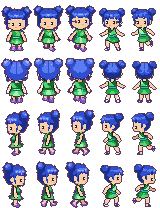
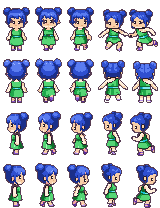
Story markers, bigger names, redrawn girl

diff --git a/js/marks.js b/js/marks.js
@@ -82,16 +82,16 @@ export class Marks {
     const tg = G.guide && G.guide.target && G.guide.target(); const list = [];
     if (tg && tg.story) list.push([tg, 2]); for (const s of near) if (!tg || s !== tg) list.push([s, 1]);
     for (const [s, pr] of list.sort((a, b) => b[1] - a[1])) {
-      const [x, y] = this.scr(s.x, s.y - 54), txt = this.name(s), r = this.textRect(txt, x, y, 17); if (placed.some(q => this.hitRect(q, r))) continue; placed.push(r);
-      const al = clamp(1 - (dist(p.x, p.y, s.x, s.y) - T * 6) / (T * 3)); k.globalAlpha = pr === 2 ? 1 : al; this.lines(txt, x, y, pr === 2 ? '#ffe9a0' : '#fff4d6', 17, 'rgba(40,24,60,.92)', 'center', 5); k.globalAlpha = 1;
+      const [x, y] = this.scr(s.x, s.y - 54), txt = this.name(s), r = this.textRect(txt, x, y, 24); if (placed.some(q => this.hitRect(q, r))) continue; placed.push(r);
+      const al = clamp(1 - (dist(p.x, p.y, s.x, s.y) - T * 6) / (T * 3)); k.globalAlpha = pr === 2 ? 1 : al; this.lines(txt, x, y, pr === 2 ? '#ffe9a0' : '#fff4d6', 24, 'rgba(40,24,60,.92)', 'center', 6); k.globalAlpha = 1;
     }
     // landmark names with a smaller, lighter subtitle: within about 10 tiles, fading out beyond, at most 3 at once
     const lm = (W.id === 'athens' ? this.landmarks : []).map(l => ({ l, x: l.x * W.ws, y: l.y * W.ws })).map(o => Object.assign(o, { d: dist(p.x, p.y, o.x, o.y) })).filter(o => o.d < T * 12).sort((a, b) => a.d - b.d).slice(0, 2);
     for (const o of lm) {
       const al = clamp((T * 12 - o.d) / (T * 3)), [x, y0_] = this.scr(o.x, o.y - 70), y = clamp(y0_, 190 * this.u(), mainCx.canvas.height - 120 * this.u());
-      const nm = o.l.name.toUpperCase(); k.font = `800 ${Math.round(22 * this.u())}px ${FONT}`; const w = k.measureText(nm).width + 22 * this.u(), h = 52 * this.u();
+      const nm = o.l.name.toUpperCase(); k.font = `800 ${Math.round(30 * this.u())}px ${FONT}`; const w = k.measureText(nm).width + 22 * this.u(), h = 66 * this.u();
       const r = { x: x - w / 2, y: y - h, w, h }; if (placed.some(q => this.hitRect(q, r))) continue; placed.push(r);
-      k.globalAlpha = al; this.plate(nm, x, y, 22, o.l.subtitle || '', 14); k.globalAlpha = 1;
+      k.globalAlpha = al; this.plate(nm, x, y, 30, o.l.subtitle || '', 18); k.globalAlpha = 1;
     }
   }
   // ---- zoomed out
@@ -142,8 +142,8 @@ export class Marks {
       if (tries >= 4 && (rects.some(q => this.hitRect(q, r)) || placed.some(q => this.hitRect(q, r)))) return false; placed.push(r); this.lines(txt, x, y + size * u, col, size, 'rgba(255,248,230,.95)', 'center', w); return true;
     };
     const z = G.cam.z, ws = W.ws, al = clamp((.6 - z) / .1); k.globalAlpha = al;
-    for (const l of (W.id === 'athens' ? this.landmarks : [])) {  const [x, y] = this.scr(l.x * ws, l.y * ws); if (x < -100 || y < -30 || x > cw + 100 || y > ch + 30) continue; place(l.big ? l.name : (z < .3 ? l.short : l.name), x, y - 8 * u, l.big ? 22 : 16, l.big ? '#6a3e0c' : '#4a2c1c', l.big ? 6 : 5); }
-    for (const c of cl) if (c.list.length === 1) { const a = c.list[0]; if (!a.main || a.got) continue; place(a.unk ? '?' : this.name(a.s), a.x, a.y + 3 * u, 16, '#3a2250', 5); }
+    for (const l of (W.id === 'athens' ? this.landmarks : [])) {  const [x, y] = this.scr(l.x * ws, l.y * ws); if (x < -100 || y < -30 || x > cw + 100 || y > ch + 30) continue; place(l.big ? l.name : (z < .3 ? l.short : l.name), x, y - 8 * u, l.big ? 28 : 21, l.big ? '#6a3e0c' : '#4a2c1c', l.big ? 7 : 6); }
+    for (const c of cl) if (c.list.length === 1) { const a = c.list[0]; if (!a.main || a.got) continue; place(a.unk ? '?' : this.name(a.s), a.x, a.y + 3 * u, 20, '#3a2250', 6); }
     k.globalAlpha = 1;
   }
   drop(k, x, y, h, col) {   // plain teardrop pin, tip at (x, y)

diff --git a/js/characters.js b/js/characters.js
@@ -89,7 +89,7 @@ export class Characters {
     if (o.pet) { im = IM[`pet_${o.pet}_${Math.floor(t * 1.5 + o.phase) % 2}`]; if (!im) return; ax = im.width / 2; ay = im.height - 2; shadowAt(o.x, o.y, 9, .25); g.drawImage(im, R(o.x - ax), R(o.y - ay)); return; }
     if (c.statue && !o.sprite && this.drawStatue(c, t)) return;
     const name = o.sprite || `c_${o.who}_0`, up = o.gest > 0; im = o.sprite ? IM[o.sprite] : this.img(o.who, up); if (!im) return;
-    const a = o.sprite ? o.anchor : (this.G.anchors || {})[`c_${o.who}_0`]; ax = a ? a[0] : im.width / 2; ay = a ? a[1] : im.height - 1;
+    const a = o.sprite ? o.anchor : (this.G.anchors || {})[`c_${o.who}_0`]; ax = a ? a[0] : im.width / 2; ay = a ? a[1] : im.height - 1; o.top = ay + (o.lift || 0);
     const bob = c.statue ? 0 : Math.round(Math.sin(t * 2.1 + o.phase) * .6 + (o.stretch || c.stretch ? 0 : 0)), lift = o.lift || 0;
     shadowAt(o.x, o.y, 12, c.statue ? .2 : .28);
     if (c.statue) { const gl = .22 + .1 * Math.sin(t * 2 + o.phase); g.globalAlpha = gl; g.fillStyle = c.glow || '#fff'; g.beginPath(); g.ellipse(o.x, o.y - 18, 15, 24, 0, 0, 7); g.fill(); g.globalAlpha = c.statue ? .93 : 1; }
@@ -103,9 +103,12 @@ export class Characters {
     shadowAt(p.x, p.y, 14, .28); g.drawImage(im, R(p.x - a[0]), R(p.y - a[1]));
   }
   mark(c, t) {   // the '...' bubble above an unfinished story's character, a small gold check once it is done
-    const G = this.G, done = G.collected(c.id), top = c.pet ? 18 : ((IM[c.sprite || `c_${c.who}_0`] || { height: 34 }).height) + 4 + (c.lift || 0);
+    const G = this.G, done = G.collected(c.id), top = c.pet ? 18 : (c.top || ((IM[c.sprite || `c_${c.who}_0`] || { height: 34 }).height) + (c.lift || 0)) + 4;
     const bx = R(c.x - 8), by = R(c.y - top - 16 + Math.sin(t * 3 + c.phase) * 1.5);
-    if (!done) { const e = IM.emote_dots; if (e) g.drawImage(e, bx, by); }
+    if (!done) {   // a story to hear: a bouncing gold '!' (the RPG sign every child knows)
+      const X = R(c.x - 3), Y = R(c.y - top - 18 + Math.abs(Math.sin(t * 4 + c.phase)) * -3), ink = '#3a2140', gold = '#ffd23f', hi = '#fff6c0';
+      px(X - 1, Y - 1, 8, 12, ink); px(X - 1, Y + 12, 8, 6, ink); px(X, Y, 6, 10, gold); px(X + 1, Y, 2, 9, hi); px(X, Y + 13, 6, 4, gold); px(X + 1, Y + 13, 2, 2, hi);
+    }
     else { const X = R(c.x - 3), Y = R(c.y - top - 6); px(X - 1, Y, 7, 7, '#5b3a29'); const gold = '#f5c542'; for (const [dx, dy] of [[0, 3], [1, 4], [2, 5], [3, 4], [4, 3], [5, 2]]) px(X + dx, Y + dy, 1, 1, gold); px(X + 1, Y + 3, 1, 1, gold); px(X + 4, Y + 2, 1, 1, '#fff6c0'); }
   }
   ents(W) {

diff --git a/js/game.js b/js/game.js
@@ -124,6 +124,7 @@ export class Game {
     label(s.label, s.x, s.y - 30 - (near ? 2 : 0), near ? '#ffffff' : '#fff4d6', '#3a2c4c', true);
   }
   drawSpot(s, t) {
+    if (this.chars && this.chars.ready && this.chars.has(s.id)) return;   // a character stands here with a '!' over their head: no flag as well
     const got = this.collected(s.id), fr = Math.floor(t * 3 + s.i) % 2, f = IM['flag_' + s.story.flag + '_' + fr] || IM.flag_history_0;
     if (!got) { const p = .5 + .5 * Math.sin(t * 3 + s.i); g.strokeStyle = `rgba(255,255,255,${(.25 + .3 * p).toFixed(2)})`; g.lineWidth = 1; g.beginPath(); g.ellipse(s.x, s.y + 1, 6 + 3 * p, 2 + p, 0, 0, 7); g.stroke(); }
     shadowAt(s.x, s.y, 6, .3); const mk = pennant(s.story.flag, t, s.i); if (mk) g.drawImage(mk.im, R(s.x - mk.ax), R(s.y - mk.ay)); else g.drawImage(f, R(s.x - 5), R(s.y - 12));   // the art lead's pennant when art/markers exists
